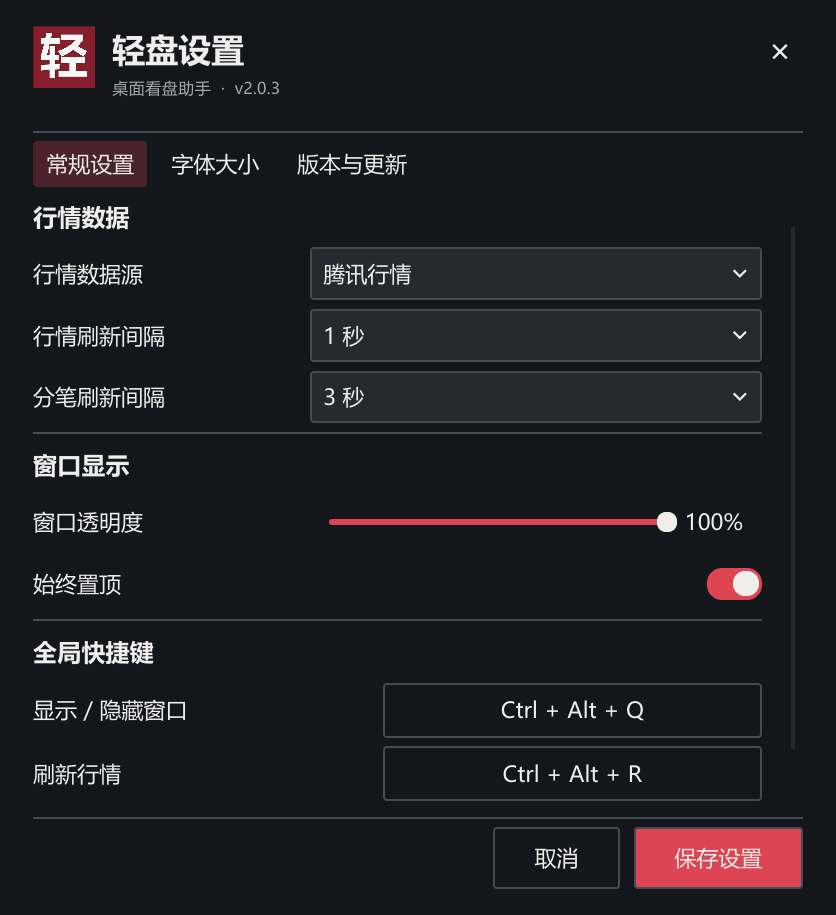
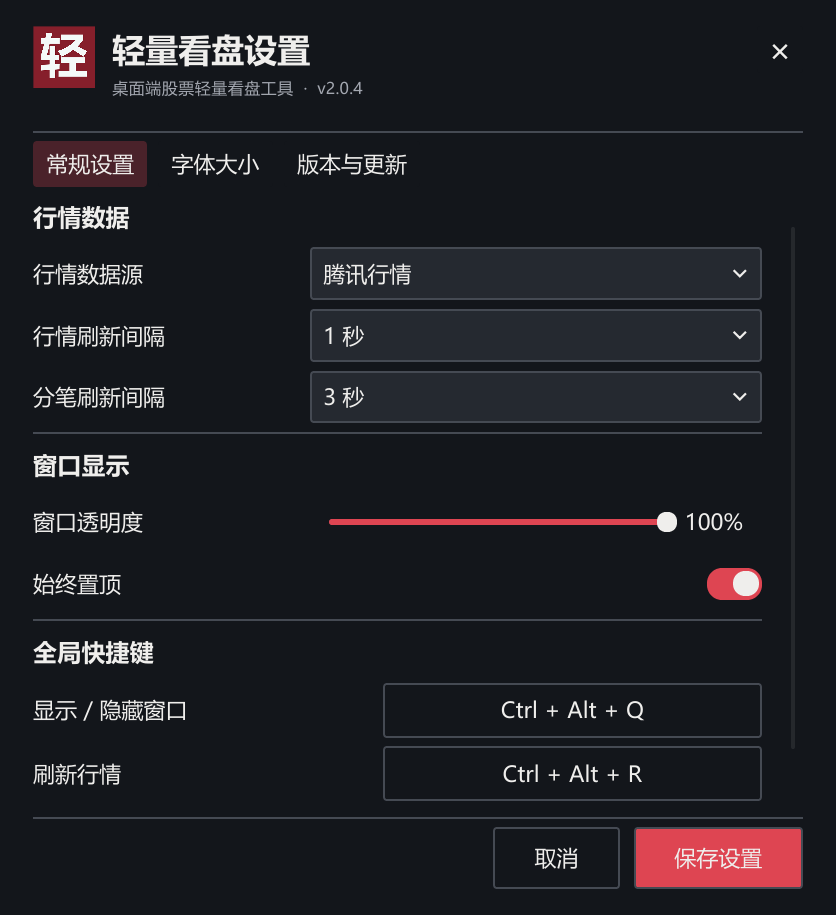
发布 2.0.4：软件更名为轻量看盘，更新简介与桌面快捷方式

Changed region(s): [[0.1555, 0.0306, 0.3732, 0.1224], [0.3732, 0.0918, 0.4354, 0.1224]]

diff --git a/native/src/platform/windows.rs b/native/src/platform/windows.rs
@@ -25,7 +25,7 @@ use windows_sys::Win32::{
     },
 };
 
-const PRODUCT: &str = "轻盘 · 桌面看盘助手";
+const PRODUCT: &str = "轻量看盘";
 const WAKE: u32 = 0x8001;
 const TRAY: u32 = WM_APP + 2;
 const OPEN_MENU: u32 = WM_APP + 3;
@@ -50,15 +50,18 @@ impl InstanceGuard {
         unsafe {
             let handle = CreateMutexW(null(), 0, name.as_ptr());
             if handle.is_null() {
-                return Err(std::io::Error::last_os_error()).context("无法创建轻盘单实例标识");
+                return Err(std::io::Error::last_os_error()).context("无法创建轻量看盘单实例标识");
             }
             let exists = GetLastError() == ERROR_ALREADY_EXISTS;
             if exists {
                 CloseHandle(handle);
-                let hwnd = FindWindowW(null(), wide(PRODUCT).as_ptr());
-                if !hwnd.is_null() {
-                    PostMessageW(hwnd, WAKE, 0, 0);
-                    SetForegroundWindow(hwnd);
+                for title in [PRODUCT, "轻盘 · 桌面看盘助手"] {
+                    let hwnd = FindWindowW(null(), wide(title).as_ptr());
+                    if !hwnd.is_null() {
+                        PostMessageW(hwnd, WAKE, 0, 0);
+                        SetForegroundWindow(hwnd);
+                        break;
+                    }
                 }
                 Ok(None)
             } else {
@@ -155,7 +158,7 @@ impl DesktopPlatform {
             .as_raw()
         {
             RawWindowHandle::Win32(value) => value.hwnd.get() as HWND,
-            _ => bail!("轻盘桌面集成只支持 Win32 窗口"),
+            _ => bail!("轻量看盘桌面集成只支持 Win32 窗口"),
         };
         let mut previous = 0;
         if unsafe { GetWindowSubclass(hwnd, Some(subclass), SUBCLASS_ID, &mut previous) } != 0 {
@@ -181,7 +184,7 @@ impl DesktopPlatform {
             unsafe {
                 DeleteObject(brush);
             }
-            bail!("无法读取轻盘托盘图标");
+            bail!("无法读取轻量看盘托盘图标");
         }
         let state = Box::new(NativeState {
             hwnd,
@@ -216,7 +219,7 @@ impl DesktopPlatform {
                 platform.state.as_ref() as *const _ as usize,
             ) == 0
             {
-                bail!("无法挂接轻盘桌面消息");
+                bail!("无法挂接轻量看盘桌面消息");
             }
             SetWindowTextW(hwnd, wide(PRODUCT).as_ptr());
             let style = GetWindowLongPtrW(hwnd, GWL_EXSTYLE);
@@ -236,7 +239,7 @@ impl DesktopPlatform {
         }
         platform.state.replace_font(22)?;
         if !platform.state.add_tray() {
-            bail!("无法创建轻盘系统托盘图标");
+            bail!("无法创建轻量看盘系统托盘图标");
         }
         Ok(platform)
     }
@@ -244,7 +247,7 @@ impl DesktopPlatform {
     pub fn notify_update(&self, version: &str) {
         let mut data = self.state.tray_data();
         data.uFlags = NIF_INFO;
-        let title = wide(&format!("轻盘有新版本 v{version}"));
+        let title = wide(&format!("轻量看盘有新版本 v{version}"));
         let text = wide("点击进入设置，下载并重启更新。");
         let n = title.len().min(data.szInfoTitle.len() - 1);
         data.szInfoTitle[..n].copy_from_slice(&title[..n]);
@@ -666,7 +669,7 @@ fn menu_label(id: u32) -> &'static str {
         9 => "退出",
         10 => "显示 / 隐藏",
         11 => "更新行情",
-        12 => "退出轻盘",
+        12 => "退出轻量看盘",
         13 => "设置 / 快捷键",
         _ => "",
     }
@@ -705,7 +708,7 @@ fn create_font(pixels: i32) -> Result<HFONT> {
         )
     };
     if font.is_null() {
-        bail!("无法创建轻盘菜单字体");
+        bail!("无法创建轻量看盘菜单字体");
     }
     Ok(font)
 }

diff --git a/native/src/update.rs b/native/src/update.rs
@@ -149,7 +149,7 @@ impl UpdateClient {
         let version_name = page_url
             .as_str()
             .strip_prefix(&format!("{RELEASES}/tag/v"))
-            .context("最新版本地址不属于轻盘官方发布页")?;
+            .context("最新版本地址不属于轻量看盘官方发布页")?;
         if version(version_name)? <= version(crate::VERSION)? {
             return Ok(None);
         }
@@ -927,7 +927,7 @@ pub fn run_helper_if_requested() -> Option<i32> {
                     .encode_utf16()
                     .chain(Some(0))
                     .collect::<Vec<_>>();
-                let title = "轻盘正式版更新"
+                let title = "轻量看盘正式版更新"
                     .encode_utf16()
                     .chain(Some(0))
                     .collect::<Vec<_>>();

diff --git a/native/src/main.rs b/native/src/main.rs
@@ -147,14 +147,14 @@ fn main() {
         #[cfg(windows)]
         {
             use windows_sys::Win32::UI::WindowsAndMessaging::*;
-            let message = format!("轻盘启动失败\n{e:#}\0")
+            let message = format!("轻量看盘启动失败\n{e:#}\0")
                 .encode_utf16()
                 .collect::<Vec<_>>();
             unsafe {
                 MessageBoxW(
                     std::ptr::null_mut(),
                     message.as_ptr(),
-                    windows_sys::w!("轻盘"),
+                    windows_sys::w!("轻量看盘"),
                     MB_ICONERROR,
                 );
             }

diff --git a/native/src/lib.rs b/native/src/lib.rs
@@ -9,4 +9,4 @@ pub mod platform;
 
 pub const BASELINE_VERSION: &str = "1.0.5";
 pub const VERSION: &str = env!("CARGO_PKG_VERSION");
-pub const PRODUCT_NAME: &str = "轻盘 · 桌面看盘助手";
+pub const PRODUCT_NAME: &str = "轻量看盘";

diff --git a/README.md b/README.md
@@ -1,8 +1,8 @@
-# 轻盘 · 桌面看盘助手
+# 轻量看盘
 
-轻盘是一款 Windows 桌面行情小窗，让你在工作时也能查看股票行情。自选股列表显示现价、涨跌幅和成交量，鼠标移到股票名上即可查看分时走势、日 K、五档盘口和最近成交。
+轻量看盘是一款桌面端股票轻量看盘工具，让你在工作时也能查看股票行情。自选股列表显示现价、涨跌幅和成交量，鼠标移到股票名上即可查看分时走势、日 K、五档盘口和最近成交。
 
-- **单文件运行。** Windows x64 正式版 **v2.0.3** 只有一个约 **11.7 MiB** 的 EXE，无需安装 .NET 或 VC++ 运行库。
+- **单文件运行。** Windows x64 正式版 **v2.0.4** 只有一个约 **11.7 MiB** 的 EXE，无需安装 .NET 或 VC++ 运行库。
 - **内存占用低。** Windows 11 上实测，跟踪 9 只自选股、每秒刷新时，行情小窗的专用工作集为 **13.1 MiB**，含共享页的总工作集为 **50.0 MiB**（v2.0.0 实测中位数）。
 - **按需刷新。** 只在打开盘口时请求明细，隐藏到托盘后暂停行情请求，再次显示时立即刷新。
 
@@ -10,14 +10,14 @@
 
 **推荐 · 单文件运行**　下载 **LiteTicker.exe**，保存到桌面或常用文件夹，双击即可看盘。[下载最新版 EXE](https://github.com/Alexzzz2008/LiteTicker/releases/latest/download/LiteTicker.exe) · [代理下载](https://gh-proxy.com/https://github.com/Alexzzz2008/LiteTicker/releases/latest/download/LiteTicker.exe)
 
-**备选 · ZIP 安装包**　下载并完整解压 ZIP，双击解压目录中的 **`install.cmd`**。安装器会创建桌面快捷方式并启动轻盘。[下载 ZIP 安装包](https://github.com/Alexzzz2008/LiteTicker/releases/latest/download/LiteTicker-win.zip) · [代理下载 ZIP](https://gh-proxy.com/https://github.com/Alexzzz2008/LiteTicker/releases/latest/download/LiteTicker-win.zip)
+**备选 · ZIP 安装包**　下载并完整解压 ZIP，双击解压目录中的 **`install.cmd`**。安装器会创建桌面快捷方式并启动轻量看盘。[下载 ZIP 安装包](https://github.com/Alexzzz2008/LiteTicker/releases/latest/download/LiteTicker-win.zip) · [代理下载 ZIP](https://gh-proxy.com/https://github.com/Alexzzz2008/LiteTicker/releases/latest/download/LiteTicker-win.zip)
 
 ## 怎么用
 
 1. **添加自选股。** 右键小窗，选择 **添加自选**。输入股票代码或拼音首字母，核对名称后勾选并添加。
 2. **看行情和盘口。** 鼠标移到股票名上即可切换盘口，点 **固定** 可保持当前股票。分时图上方的黄色数字是最新分时均价，五档挂单可切换手数或金额。
 3. **调整小窗。** 拖动小窗或边缘可移动或缩放。右键打开 **设置**，可调字号、透明度、置顶和快捷键，在 **版本与更新** 中可检查新版。
-4. **隐藏或退出。** 按 `Ctrl+Alt+Q` 显示或隐藏小窗，也可双击托盘图标恢复。要完全退出，在托盘菜单选择 **退出轻盘**。
+4. **隐藏或退出。** 按 `Ctrl+Alt+Q` 显示或隐藏小窗，也可双击托盘图标恢复。要完全退出，在托盘菜单选择 **退出轻量看盘**。
 
 自选股与设置保存在本机，更新后会保留。
 
@@ -32,7 +32,7 @@
 <details>
 <summary>查看设置与添加自选界面</summary>
 
-![轻盘设置](assets/screenshots/settings.png)
+![轻量看盘设置](assets/screenshots/settings.png)
 
 ![按代码搜索并添加自选股](assets/screenshots/add-symbols.png)
 
